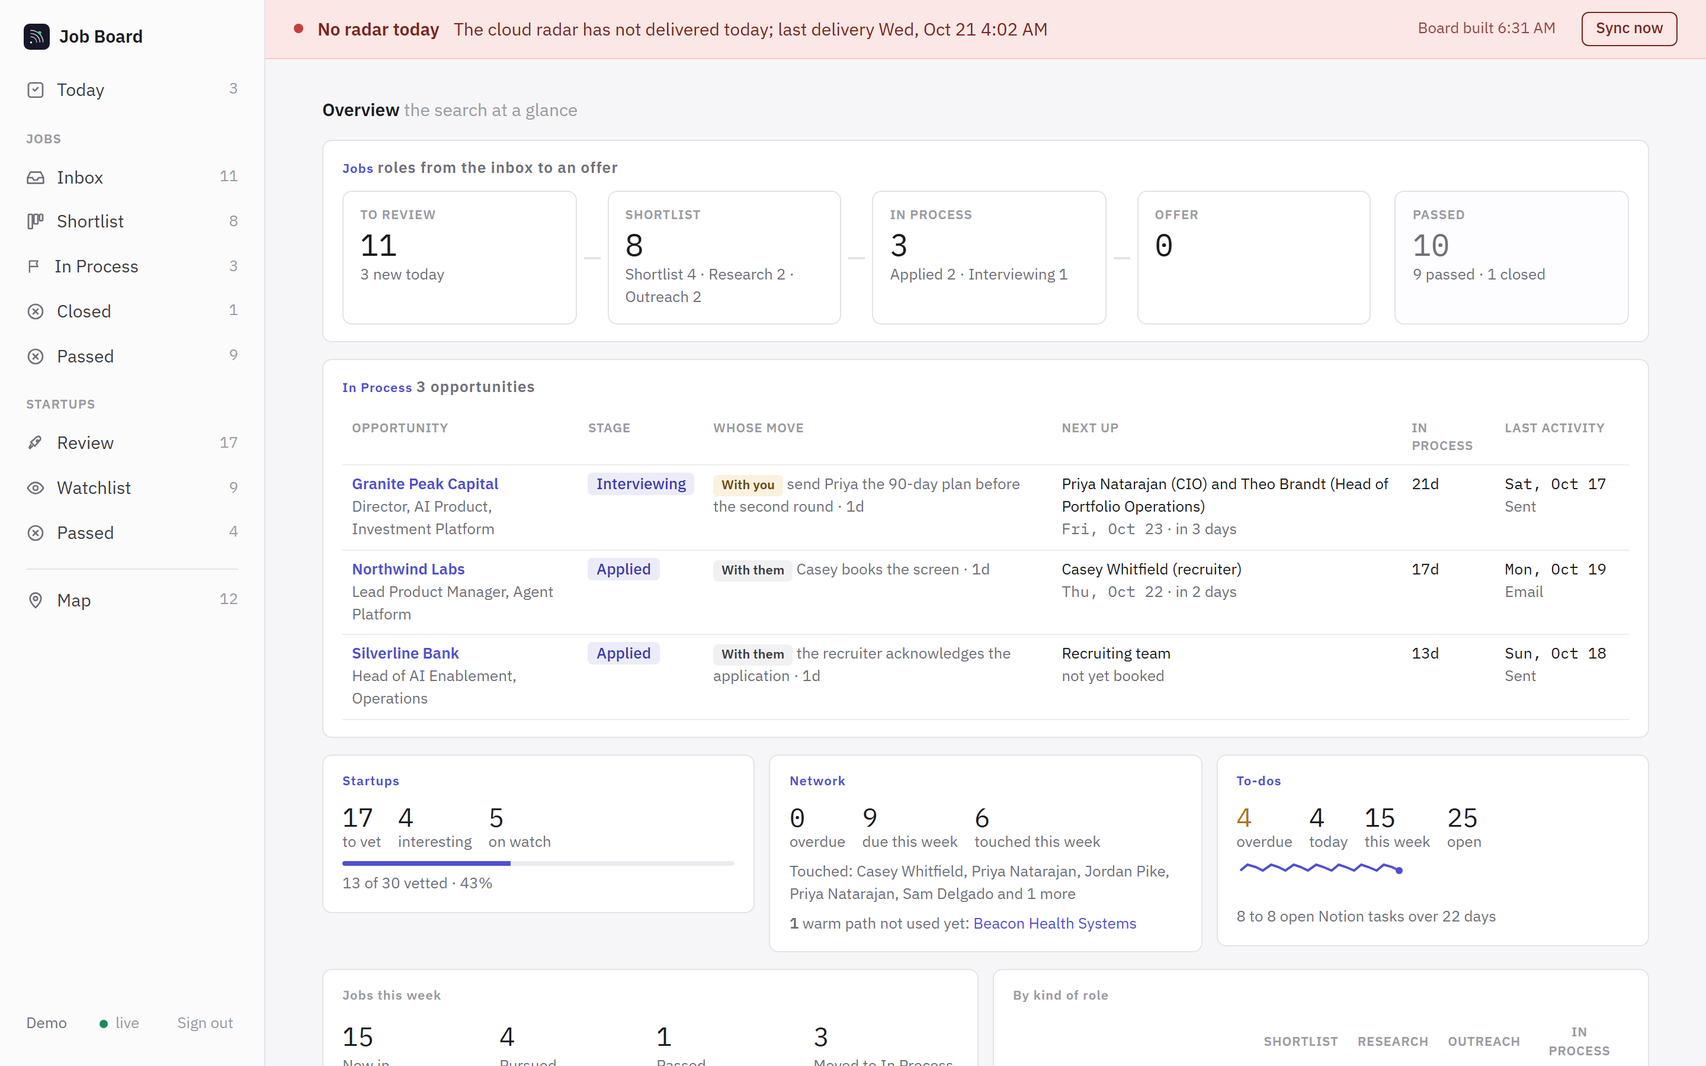
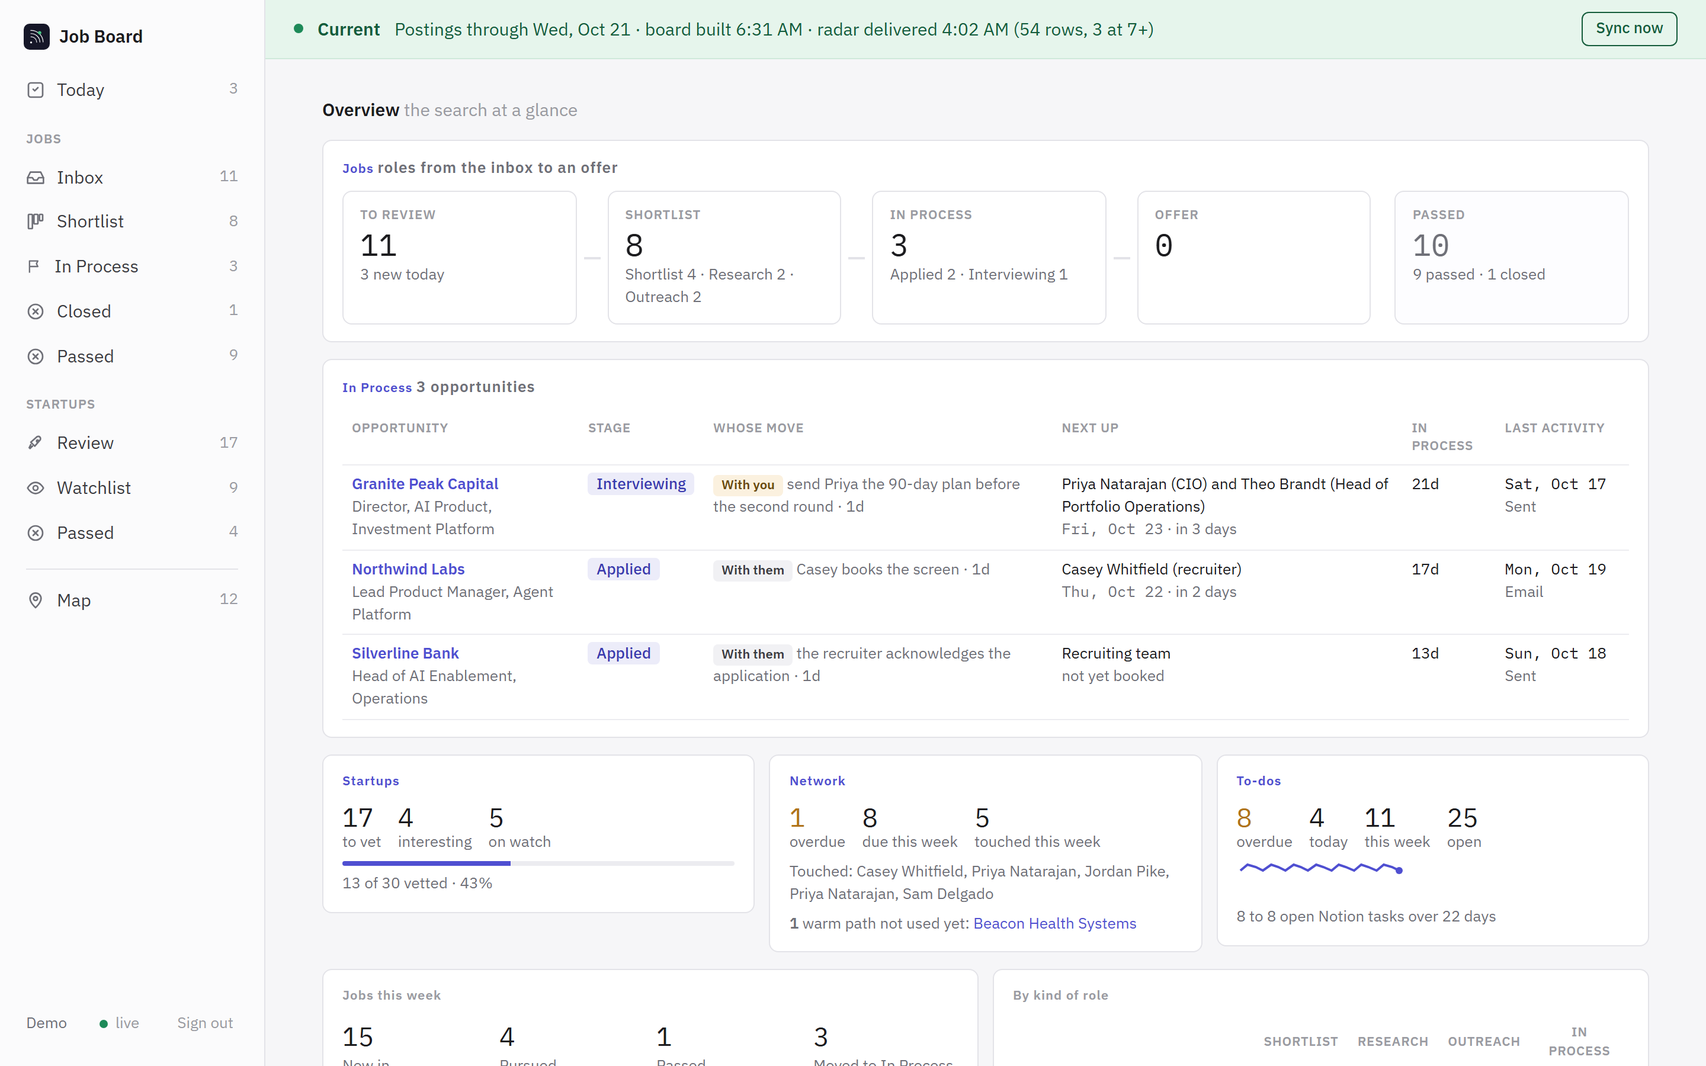
Sync from the engine: Today decisions: No response, stalled Active role, Bench review, open Ac

Changed region(s): [[0.1875, 0.0, 0.625, 0.0622], [0.8438, 0.0, 0.9062, 0.0311], [0.9375, 0.0, 0.9688, 0.0311]]

diff --git a/web/index.html b/web/index.html
@@ -452,6 +452,7 @@ a.pill.lnk{display:inline-block;border-radius:999px;padding:2px 10px;border:1px 
 .td-box{width:16px;height:16px;border:1.5px solid var(--ghost);border-radius:4px;flex:none;margin-top:3px;background:var(--surface);padding:0;cursor:pointer}
 .td-box:hover{border-color:var(--accent);background:var(--accent-soft)}
 .td-tx{flex:1;min-width:0}.td-tx b{font-weight:500;display:block;line-height:1.35}.td-tx i{font-style:normal;font-size:var(--fs-sm);color:var(--muted);display:block}
+.td-dec{margin-top:6px}
 .td-why{font-style:normal;font-size:var(--fs-sm);font-weight:500;color:var(--accent);display:block}
 .td-k{font-size:11px;font-weight:500;border-radius:4px;padding:1px 6px;white-space:nowrap;margin-top:3px}
 .td-k.role{background:var(--accent-soft);color:var(--accent2)}.td-k.person{background:var(--green-soft);color:var(--green-text)}.td-k.task{background:var(--chip);color:var(--text2)}
@@ -665,7 +666,7 @@ function isDirty(id){const d=draft[id];if(!d)return false;const s=fb(id);return 
 function seedState(){state={};JOBS.forEach(j=>{const o=OPPS[j.id];state[j.id]={v:j.verdict?cap(j.verdict):"",cal:j.calibration||"",note:j.note||"",flag:!!j.flag,
   stage:(o?o.stage:j.stage)||"",outcome:(o?o.outcome:j.outcome)||"",next:(o?o.next:j.next_step)||"",nextDate:(o?o.next_date:j.next_step_date)||"",vts:j.verdict_ts||"",sts:j.stage_ts||""};});}
 /* One Opportunities page as the board holds it: the mirror row is the truth for stage, outcome and next step. */
-function applyOpp(o){if(!o||!o.id)return;OPPS[o.id]=o;const s=fb(o.id);Object.assign(s,{stage:o.stage||"",outcome:o.outcome||"",next:o.next||"",nextDate:o.next_date||""});}
+function applyOpp(o){if(!o||!o.id)return;const was=OPPS[o.id];if(!o.lane_since&&was&&was.lane_since&&was.lane===o.lane)o=Object.assign({},o,{lane_since:was.lane_since});OPPS[o.id]=o;const s=fb(o.id);Object.assign(s,{stage:o.stage||"",outcome:o.outcome||"",next:o.next||"",nextDate:o.next_date||""});}
 function applyVerdictRow(x){const s=fb(x.id);if(tsNum(x.ts)>tsNum(s.vts))Object.assign(s,{v:x.v||"",cal:x.cal||"",note:x.note||"",flag:!!x.flag,vts:x.ts});}
 let VIEWS={};
 async function loadBoard(){
@@ -1268,7 +1269,7 @@ const todoDueCount=()=>todoItems().filter(i=>!i.done&&(i.b==="overdue"||i.b==="t
 const tdWhen=i=>i.nostep?"":!i.date?"no date":i.b==="today"?"Today":i.b==="overdue"?`${-daysFrom(i.date)}d late`:daysFrom(i.date)===1?"Tomorrow":i.b==="week"?new Date(i.date+"T12:00:00").toLocaleDateString([],{weekday:"short"}):new Date(i.date+"T12:00:00").toLocaleDateString([],{month:"short",day:"numeric"});
 const tdDateBtns=(k,small)=>`<button data-tsnooze="${k}" data-days="0">Today</button><button data-tsnooze="${k}" data-days="1">Tomorrow</button><button data-tsnooze="${k}" data-days="7">Next week</button><button data-tsnooze="${k}" data-days="later" title="No date">Later</button>`;
 const tdUndo=i=>i.p?`<button class="td-undo" data-tundo="${esc(i.key)}" title="Take back the staged change">Undo</button>`:"";
-const tdRow=(i,on,opts)=>{const k=esc(i.key);return`<div class="td-row${on?" on":""}${i.done?" done":""}${i.p?" pend":""}" data-tsel="${k}"><button class="td-box" data-tdone="${k}" aria-label="Done" title="Done"${i.nostep?" disabled":""}></button><div class="td-tx"><b>${esc(i.text)}</b><i>${esc(i.who)}${i.sub?" · "+esc(i.sub):""}</i>${opts&&opts.why?`<em class="td-why">${esc(opts.why)}</em>`:""}${opts&&opts.btns?`<div class="td-btns">${tdDateBtns(k)}</div>`:""}</div>${tdUndo(i)}<span class="td-k ${i.kind}">${cap(i.kind)}</span><span class="td-dt k-${i.b}">${tdWhen(i)}</span></div>`;};
+const tdRow=(i,on,opts)=>{const k=esc(i.key);return`<div class="td-row${on?" on":""}${i.done?" done":""}${i.p?" pend":""}" data-tsel="${k}"><button class="td-box" data-tdone="${k}" aria-label="Done" title="Done"${i.nostep?" disabled":""}></button><div class="td-tx"><b>${esc(i.text)}</b><i>${esc(i.who)}${i.sub?" · "+esc(i.sub):""}</i>${opts&&opts.why?`<em class="td-why">${esc(opts.why)}</em>`:""}${opts&&opts.extra?`<div class="td-btns td-dec">${opts.extra}</div>`:""}${opts&&opts.btns?`<div class="td-btns">${tdDateBtns(k)}</div>`:""}</div>${tdUndo(i)}<span class="td-k ${i.kind}">${cap(i.kind)}</span><span class="td-dt k-${i.b}">${tdWhen(i)}</span></div>`;};
 const tdFold=new Set();
 function tdGroups(items){const g=[];const push=(key,name,list)=>{if(list.length)g.push({key,name,list});};
   push("od","Overdue",items.filter(i=>i.b==="overdue"));push("td","Today · "+fmtDate(todayIso()),items.filter(i=>i.b==="today"));
@@ -1367,14 +1368,15 @@ const bizDays=n=>{const d=new Date();let k=0;while(k<n){d.setDate(d.getDate()+1)
 const laneOf=id=>(OPPS[id]||{}).lane||"";
 const early=j=>stageRank(stageOf(j))<stageRank("applied");
 const activeEarly=()=>JOBS.filter(j=>verdictOf(j)==="pursue"&&!isClosed(j)&&laneOf(j.id)==="active"&&early(j)).length;
-const MOVES={sent:"Sent",applied:"Applied",promote:"Promote to Active",bench:"Back to Bench",pause:"Pause",close:"Close"};
+const MOVES={sent:"Sent",applied:"Applied",promote:"Promote to Active",bench:"Back to Bench",pause:"Pause",close:"Close",noresp:"Close: no response"};
 function moveFields(mv,id){const st=stageOf(byId[id]);
   if(mv==="sent")return{stage:stageRank(st)<stageRank("outreach")?"outreach":st,ball:"them",next:"Follow up if no reply",next_date:bizDays(5)};
   if(mv==="applied")return{stage:stageRank(st)<stageRank("applied")?"applied":st,lane:"active",ball:"them",next:"Follow up on the application",next_date:bizDays(10)};
   if(mv==="close")return{stage:"closed",outcome:"withdrew"};
+  if(mv==="noresp")return{stage:"closed",outcome:"no_response"};
   return{lane:{promote:"active",bench:"bench",pause:"paused"}[mv]};}
 function moveBtns(i){if(i.kind!=="role"||i.done)return"";const k=esc(i.key),j=i.j,b=(mv,lab)=>`<button data-tmove="${k}" data-mv="${mv}">${lab||MOVES[mv]}</button>`;
-  return`<div class="nw-sec"><div class="nw-lab">Quick moves</div><div class="td-btns">${b("sent","Sent a note")}${early(j)?b("applied"):""}${i.lane!=="active"?b("promote"):early(j)?b("bench"):""}${i.lane!=="paused"?b("pause"):""}${b("close")}</div><div class="td-home">Sent: Outreach, ball with them, follow up in 5 business days. Applied: follow up in 10. Close is withdrew. Sync sends it.</div></div>`;}
+  return`<div class="nw-sec"><div class="nw-lab">Quick moves</div><div class="td-btns">${b("sent","Sent a note")}${early(j)?b("applied"):""}${i.lane!=="active"?b("promote"):early(j)?b("bench"):""}${i.lane!=="paused"?b("pause"):""}${b("close")}${["outreach","applied"].includes(stageOf(j))?b("noresp","No response"):""}</div><div class="td-home">Sent: Outreach, ball with them, follow up in 5 business days. Applied: follow up in 10. Close is withdrew. Sync sends it.</div></div>`;}
 function todayMove(key,mv){const [,id]=tdSplit(key);const j=byId[id];if(!j||!MOVES[mv])return;
   if(mv==="promote"&&early(j)&&activeEarly()>=ACTIVE_CAP){toast(`Active already has ${ACTIVE_CAP}. Bench or pause one first.`);return;}
   stage(key,{mv,text:(todoItems().find(i=>i.key===key)||{}).text||""});toast("Staged: "+MOVES[mv]);render();}
@@ -1397,6 +1399,41 @@ function planAnswer(id,ok){const j=byId[id];if(!j||!j.plan)return;const ta=view.
    the rest stay on To-dos. */
 const TOP_N=3;
 const inPlay=i=>i.j&&verdictOf(i.j)==="pursue"&&!isClosed(i.j)&&(laneOf(i.j.id)==="active"||!early(i.j));
+/* Decisions (agreed spec, flow 5, 8 and 9; built 2026-10-21 on the owner's go). Each is a question about one role, never
+   acted on by itself: the buttons stage a move and Sync sends it.
+   - No response: a role in Outreach or Applied whose last send or application is 21+ days old with nothing back since
+     (log.md, written by the mail step); Close: no response, or keep waiting a week.
+   - Stale: an Active role, ball not with them, whose next move is 7+ days late, or with no next step 7+ days into its
+     stage; keep (a new date), change approach (the role), pause or close.
+   - Bench review: on the Bench 21+ days (lane_since, kept by notion_sync.py from the day the Lane last changed); promote,
+     keep (a review in 21 days, written as the role's next step so it holds on every device), or close.
+   - Open slot: Active under the cap of 8; the best Bench role by fit is offered, never promoted silently. Not now hides
+     it for a week on this device. */
+const DEC_NORESP=21,DEC_STALE=7,DEC_BENCH=21;
+const slotQuiet=()=>{try{return(localStorage.getItem("board.slotQuiet")||"")>=todayIso();}catch(x){return false;}};
+function todayDecisions(items){const role=id=>items.find(i=>i.kind==="role"&&i.id===id);const out=[];const seen=new Set();const today=todayIso();
+  const due=i=>!i.date||i.date<=today;const pend=i=>i.p&&(i.p.mv||i.p.next!==undefined||i.p.date!==undefined);
+  const add=(i,dec,text,why,btns)=>{if(!i||seen.has(i.id)||i.done||pend(i))return;seen.add(i.id);out.push(Object.assign({},i,{dec,text,decWhy:why,decBtns:btns}));};
+  const mv=(i,m,lab)=>`<button data-tmove="${esc(i.key)}" data-mv="${m}">${esc(lab||MOVES[m])}</button>`;
+  const keep=(i,next,days,lab)=>`<button data-tkeep="${esc(i.key)}" data-next="${esc(next)}" data-days="${days}">${esc(lab)}</button>`;
+  items.filter(i=>i.kind==="role").forEach(i=>{const j=i.j;
+    if(["outreach","applied"].includes(stageOf(j))&&i.lane!=="paused"&&due(i)){const log=j.log||[];
+      const out_=log.filter(r=>/^(sent|applied)$/i.test(r.type)).map(r=>r.date).sort().pop();
+      if(out_&&daysAgo(out_)>=DEC_NORESP&&!log.some(r=>/^(email|invite)$/i.test(r.type)&&r.date>=out_))
+        add(i,"noresp",`No reply from ${j.company.split(" via ")[0]}: close it, or keep waiting?`,`No reply in ${daysAgo(out_)} days`,mv(i,"noresp")+keep(i,"Check for a reply",7,"Keep waiting"));}});
+  items.filter(i=>i.kind==="role"&&i.lane==="active"&&early(i.j)&&i.ball!=="them").forEach(i=>{
+    const late=!i.nostep&&i.date&&daysAgo(i.date)>=DEC_STALE,idle=i.nostep&&ageOf(i.j).stageDays>=DEC_STALE;
+    if(late||idle)add(i,"stale",`Stalled: keep going, change the approach, pause or close?`,late?`Next move ${daysAgo(i.date)} days late`:`No next step in ${ageOf(i.j).stageDays} days`,
+      `<button data-tsel="${esc(i.key)}">Keep or change</button>`+mv(i,"pause")+mv(i,"close"));});
+  const room=ACTIVE_CAP-activeEarly()-Object.values(PEND).filter(p=>p.mv==="promote").length;
+  const bench=items.filter(i=>i.kind==="role"&&i.lane==="bench").sort((a,b)=>(b.j.score||0)-(a.j.score||0));
+  bench.forEach(i=>{const since=(OPPS[i.id]||{}).lane_since;
+    if(since&&daysAgo(since)>=DEC_BENCH&&due(i))add(i,"bench",`On the Bench a while: promote, keep or close?`,`Bench ${daysAgo(since)} days`+(room>0?" · Active has room":""),
+      (room>0?mv(i,"promote","Promote"):"")+keep(i,"Bench review",DEC_BENCH,"Keep on Bench")+mv(i,"close"));});
+  if(room>0&&!slotQuiet()){const best=bench.find(i=>!seen.has(i.id)&&!pend(i));
+    if(best)add(best,"slot",`Active has ${room} open slot${room===1?"":"s"}: promote ${best.j.company.split(" via ")[0]}?`,`Best on the Bench · fit ${best.j.score??"?"}`,
+      mv(best,"promote","Promote")+`<button data-tslotquiet="1">Not now</button>`);}
+  return out;}
 function todayParts(){const k3=plusDays(3);
   const all=todoItems();const stepped=new Set(all.filter(i=>i.kind==="role"&&!i.nostep).map(i=>i.id));
   const items=all.filter(i=>i.kind==="person"||(i.kind==="role"&&(inPlay(i)||["bench","paused"].includes(i.lane)))||(i.kind==="task"&&inPlay(i)&&!stepped.has(i.j.id)));
@@ -1405,22 +1442,26 @@ function todayParts(){const k3=plusDays(3);
   const rest=items.filter(i=>!ivk.has(i.key));
   const mine=rest.filter(i=>live(i)&&i.ball!=="them");
   const plans=JOBS.filter(planOpen).sort((a,b)=>(b.score||0)-(a.score||0));const planned=new Set(plans.map(j=>j.id));
-  const due=mine.filter(i=>!i.nostep&&!planned.has(i.j.id)&&(i.b==="overdue"||i.b==="today")).sort((a,b)=>((b.j.score||0)-(a.j.score||0))||(a.date||"").localeCompare(b.date||""));
+  const decs=todayDecisions(all).filter(d=>!planned.has(d.id)&&!ivk.has(d.key));const decided=new Set(decs.map(d=>d.id));
+  const due=mine.filter(i=>!i.nostep&&!planned.has(i.j.id)&&!decided.has(i.j.id)&&(i.b==="overdue"||i.b==="today")).sort((a,b)=>((b.j.score||0)-(a.j.score||0))||(a.date||"").localeCompare(b.date||""));
   const reply=mine.filter(i=>/^Reply to /.test(i.text)&&!due.includes(i));
   const ranked=[...iv.map(i=>({i,why:"Interview "+tdWhen(i).replace(/^(Today|Tomorrow)$/,m=>m.toLowerCase())})),...plans.map(j=>({j,why:"Plan waiting on your answer"})),
-    ...due.map(i=>({i,why:(i.b==="overdue"?tdWhen(i):"Due today")+" · fit "+(i.j.score??"?")})),...reply.map(i=>({i,why:"They wrote back"}))];
+    ...[...due.map(i=>({i,why:(i.b==="overdue"?tdWhen(i):"Due today")+" · fit "+(i.j.score??"?")})),...decs.filter(d=>d.dec==="stale").map(i=>({i,why:i.decWhy+" · fit "+(i.j.score??"?")}))]
+      .sort((a,b)=>(b.i.j.score||0)-(a.i.j.score||0)),...reply.map(i=>({i,why:"They wrote back"})),
+    ...decs.filter(d=>d.dec!=="stale").map(i=>({i,why:i.decWhy}))];
   const top=ranked.filter(r=>!(r.i&&r.i.done)).slice(0,TOP_N);const topk=new Set(top.map(r=>r.i?r.i.key:"plan:"+r.j.id));
   const left=l=>l.filter(i=>!topk.has(i.key));
-  return{items,top,iv:left(iv),plans:plans.filter(j=>!topk.has("plan:"+j.id)),
-    now:left(mine.filter(i=>(i.b==="overdue"||i.b==="today")&&!(i.kind==="role"&&planned.has(i.id)))),nostep:left(mine.filter(i=>i.b==="nostep")),soon:left(mine.filter(i=>!["overdue","today","nostep"].includes(i.b))),
-    people:rest.filter(i=>i.kind==="person"),theirs:rest.filter(i=>live(i)&&i.ball==="them"),
-    bench:rest.filter(i=>i.kind==="role"&&i.lane==="bench"),paused:rest.filter(i=>i.kind==="role"&&i.lane==="paused")};}
+  const notDec=l=>l.filter(i=>!decided.has(i.id)||i.kind!=="role");
+  return{items,top,decs:left(decs),iv:left(iv),plans:plans.filter(j=>!topk.has("plan:"+j.id)),
+    now:notDec(left(mine.filter(i=>(i.b==="overdue"||i.b==="today")&&!(i.kind==="role"&&planned.has(i.id))))),nostep:notDec(left(mine.filter(i=>i.b==="nostep"))),soon:left(mine.filter(i=>!["overdue","today","nostep"].includes(i.b))),
+    people:rest.filter(i=>i.kind==="person"),theirs:notDec(rest.filter(i=>live(i)&&i.ball==="them")),
+    bench:notDec(rest.filter(i=>i.kind==="role"&&i.lane==="bench")),paused:rest.filter(i=>i.kind==="role"&&i.lane==="paused")};}
 const todayCount=()=>todayParts().top.length;
 function viewToday(arg){const t=todayParts();
   const all=[...t.top.filter(r=>r.i).map(r=>r.i),...t.iv,...t.now,...t.nostep,...t.soon,...t.people,...t.theirs,...t.bench,...t.paused];
   const sel=all.find(i=>i.key===arg)||(SPLIT.matches?(t.top.find(r=>r.i)||{}).i||null:null);
   const on=i=>!!(sel&&i.key===sel.key);
-  const row=(i,why)=>tdRow(i,on(i),why?{why}:null)+(!SPLIT.matches&&on(i)?`<div class="td-drawer">${tdPane(i)}</div>`:"");
+  const row=(i,why)=>tdRow(i,on(i),why||i.dec?{why:why||i.decWhy,extra:i.decBtns}:null)+(!SPLIT.matches&&on(i)?`<div class="td-drawer">${tdPane(i)}</div>`:"");
   const rows=list=>list.map(i=>row(i)).join("");
   const sec=(key,name,list,folded,hint)=>{if(!list.length)return"";const f=tdFold.has(key)!==!!folded;
     return`<div class="td-grp"><button class="td-gh${f?" fold":""}" data-tfold="${key}">${esc(name)}<span>${list.length}</span></button>${f?"":`${hint?`<div class="hint">${hint}</div>`:""}<div class="td-card">${rows(list)}</div>`}</div>`;};
@@ -1428,14 +1469,14 @@ function viewToday(arg){const t=todayParts();
   const runs=[];t.top.forEach(r=>{const last=runs[runs.length-1];if(r.i&&last&&last.rows)last.rows.push(r);else runs.push(r.i?{rows:[r]}:{plan:r.j});});
   const first=t.top.length?`<div class="td-grp td-top"><div class="td-gh">Do these first<span>${t.top.length}</span></div>${runs.map(x=>x.rows?`<div class="td-card">${x.rows.map(r=>row(r.i,r.why)).join("")}</div>`:planCard(x.plan)).join("")}</div>`:"";
   const restPlans=t.plans.length?`<div class="td-grp"><div class="td-gh">Plans to answer<span>${t.plans.length}</span></div><div class="hint">Nothing is drafted until you answer. Approve as is, or say what to change; Sync sends it.</div>${t.plans.map(planCard).join("")}</div>`:"";
-  const inner=sec("iv","Interviews, next 3 days",t.iv)+restPlans+sec("now","Also due · "+fmtDate(todayIso()),t.now)+sec("ns","Active, no next step yet",t.nostep)
+  const inner=sec("dec","Decisions",t.decs)+sec("iv","Interviews, next 3 days",t.iv)+restPlans+sec("now","Also due · "+fmtDate(todayIso()),t.now)+sec("ns","Active, no next step yet",t.nostep)
     +sec("soon","Coming up",t.soon)+sec("ppl","Relationships",t.people)+sec("them","Waiting on them",t.theirs)
     +sec("bench","Bench",t.bench,true,"Quick research runs on these too. Promote one when Active has room.")+sec("paused","Paused",t.paused,true);
-  const n=t.iv.length+t.plans.length+t.now.length+t.nostep.length+t.soon.length+t.people.length+t.theirs.length+t.bench.length+t.paused.length;
+  const n=t.decs.length+t.iv.length+t.plans.length+t.now.length+t.nostep.length+t.soon.length+t.people.length+t.theirs.length+t.bench.length+t.paused.length;
   const shut=!tdFold.has("rest");
   const more=n?`<div class="td-grp"><button class="td-gh${shut?" fold":""}" data-tfold="rest">Everything else<span>${n}</span></button>${shut?"":inner}</div>`:"";
   const ae=activeEarly();
-  return`<div class="sh"><h2>Today <span>${t.top.length} to do first · Active ${ae}/${ACTIVE_CAP}</span></h2><div class="hint">Ranked: interviews, then plans, then due moves on Active roles by fit. Sync saves changes to Notion.</div></div>${tdBar()}
+  return`<div class="sh"><h2>Today <span>${t.top.length} to do first · Active ${ae}/${ACTIVE_CAP}</span></h2><div class="hint">Ranked: interviews, then plans, then due or stalled moves on Active roles by fit, then replies and decisions. Sync saves changes to Notion.</div></div>${tdBar()}
    <div class="td"><div class="td-main">${first||'<div class="emptybig"><b>Nothing needs you first</b><span>No interview, plan or Active move is due.</span></div>'}${more}</div>
    <div class="td-side">${SPLIT.matches?`<div class="td-card td-pane">${sel?tdPane(sel):'<div class="hint">Pick a row on the left.</div>'}</div>`:""}</div></div>`;}
 
@@ -1931,7 +1972,7 @@ view.addEventListener("click",async e=>{const t=e.target.closest("[data-edit],[d
   if(!await writeVerdict(id,{v:""}))return;if(OPPS[id])await closeOpp(id);EDIT.delete(id);delete draft[id];
   toast(isInbox(byId[id])?"Back in the Inbox; your note is kept":"Verdict cleared. It scores under the inbox floor, so it will not show in the Inbox");render();});
 view.addEventListener("click",async e=>{const d=e.target.closest('a[href="#decide"]');if(d){e.preventDefault();const el=document.getElementById("decide");if(el)el.scrollIntoView({behavior:"smooth",block:"start"});return;}
-  const t=e.target.closest("[data-v],[data-quickv],[data-cal],[data-flag],[data-x],[data-open],[data-acc],[data-submit],[data-sel],[data-mapf],[data-pin],[data-mapzoom],[data-netlens],[data-addperson],[data-cdone],[data-snooze],[data-cdonego],[data-nsel],[data-link],[data-unlink],[data-tsel],[data-tdone],[data-tsnooze],[data-tfold],[data-tundo],[data-tsync],[data-tdiscard],[data-tmove],[data-plan],[data-wtab],[data-samples],[data-scrf],[data-confirmrm]");if(!t)return;
+  const t=e.target.closest("[data-v],[data-quickv],[data-cal],[data-flag],[data-x],[data-open],[data-acc],[data-submit],[data-sel],[data-mapf],[data-pin],[data-mapzoom],[data-netlens],[data-addperson],[data-cdone],[data-snooze],[data-cdonego],[data-nsel],[data-link],[data-unlink],[data-tsel],[data-tdone],[data-tsnooze],[data-tfold],[data-tundo],[data-tsync],[data-tdiscard],[data-tmove],[data-tkeep],[data-tslotquiet],[data-plan],[data-wtab],[data-samples],[data-scrf],[data-confirmrm]");if(!t)return;
   if(t.matches("[data-confirmrm]")){e.preventDefault();e.stopPropagation();t.disabled=true;await confirmRemoval(t.dataset.confirmrm);return;}
   if(t.dataset.samples){setSamples(!SAMPLES_ON);paint();return;}
   if(t.dataset.scrf){SCR_F=t.dataset.scrf;paint();return;}
@@ -1944,6 +1985,8 @@ view.addEventListener("click",async e=>{const d=e.target.closest('a[href="#decid
   if(t.dataset.tdiscard){const n=pendN();PEND={};savePend();toast(`${n} staged change${n===1?"":"s"} discarded`);render();return;}
   if(t.dataset.tsel){const h=tdBase()+"/"+t.dataset.tsel;if(location.hash!==h)location.hash=h;else if(!SPLIT.matches)location.hash=tdBase();return;}
   if(t.dataset.tmove){todayMove(t.dataset.tmove,t.dataset.mv);return;}
+  if(t.dataset.tkeep){const d=plusDays(+t.dataset.days);stage(t.dataset.tkeep,{next:t.dataset.next,date:d,text:t.dataset.next});toast(`Staged: ${t.dataset.next}, ${fmtDate(d)}`);render();return;}
+  if(t.dataset.tslotquiet){try{localStorage.setItem("board.slotQuiet",plusDays(7));}catch(x){}toast("Hidden for a week");render();return;}
   if(t.dataset.plan){planAnswer(t.dataset.plan,t.dataset.ok==="1");return;}
   if(t.dataset.link||t.dataset.unlink){const id=t.dataset.link||t.dataset.unlink;t.disabled=true;
     const o=await oppWrite({action:t.dataset.link?"link":"unlink",id,kind:t.dataset.kind,target:t.dataset.target});

diff --git a/engine/notion_sync.py b/engine/notion_sync.py
@@ -7,7 +7,7 @@ files the board's mirrors are pushed from:
     <vault>/network/contacts.json       {"asof", "people": [...]}      (network_notion.py owns the person shape)
     <vault>/network/opportunities.json  {"asof", "opps": [{"id", "page", "url", "stage", "outcome", "next",
                                          "next_date", "hp", "hp_people", "flag", "lane", "ball", "company", "company_name",
-                                         "people": [ids], "meetings": [ids], "tasks": [ids], "edited"}]}
+                                         "people": [ids], "meetings": [ids], "tasks": [ids], "edited", "lane_since"}]}
     <vault>/network/meetings.json       {"asof", "meetings": [{"id", "url", "name", "date", "type", "summary",
                                          "actions", "status", "people": [ids], "companies": [ids], "opps": [ids]}]}
     <vault>/network/tasks.json         {"asof", "tasks": [{"id", "url", "title", "status", "area", "priority", "due",
@@ -109,6 +109,12 @@ def pull(cfg, p):
         if n.get("tasks_data_source") else []
     tasks.sort(key=lambda t: (t["plan_day"] or t["due"] or "9999", t["title"] or ""))
     asof = datetime.now(timezone.utc).strftime("%Y-%m-%dT%H:%M:%SZ")
+    # lane_since: the first pull that saw the role in its current Lane (Notion keeps no history of a select). The board's
+    # Bench review asks after 21 days on the Bench (2026-10-21); a role first seen today starts its clock today.
+    prev = {o["id"]: o for o in (load(opps_file(p), "opps") or {}).get("opps") or []}
+    for o in opps:
+        was = prev.get(o["id"]) or {}
+        o["lane_since"] = was.get("lane_since") if was.get("lane") == o["lane"] and was.get("lane_since") else asof[:10]
     write(opps_file(p), {"asof": asof, "opps": opps})
     write(meetings_file(p), {"asof": asof, "meetings": meets})
     write(tasks_file(p), {"asof": asof, "tasks": tasks})
